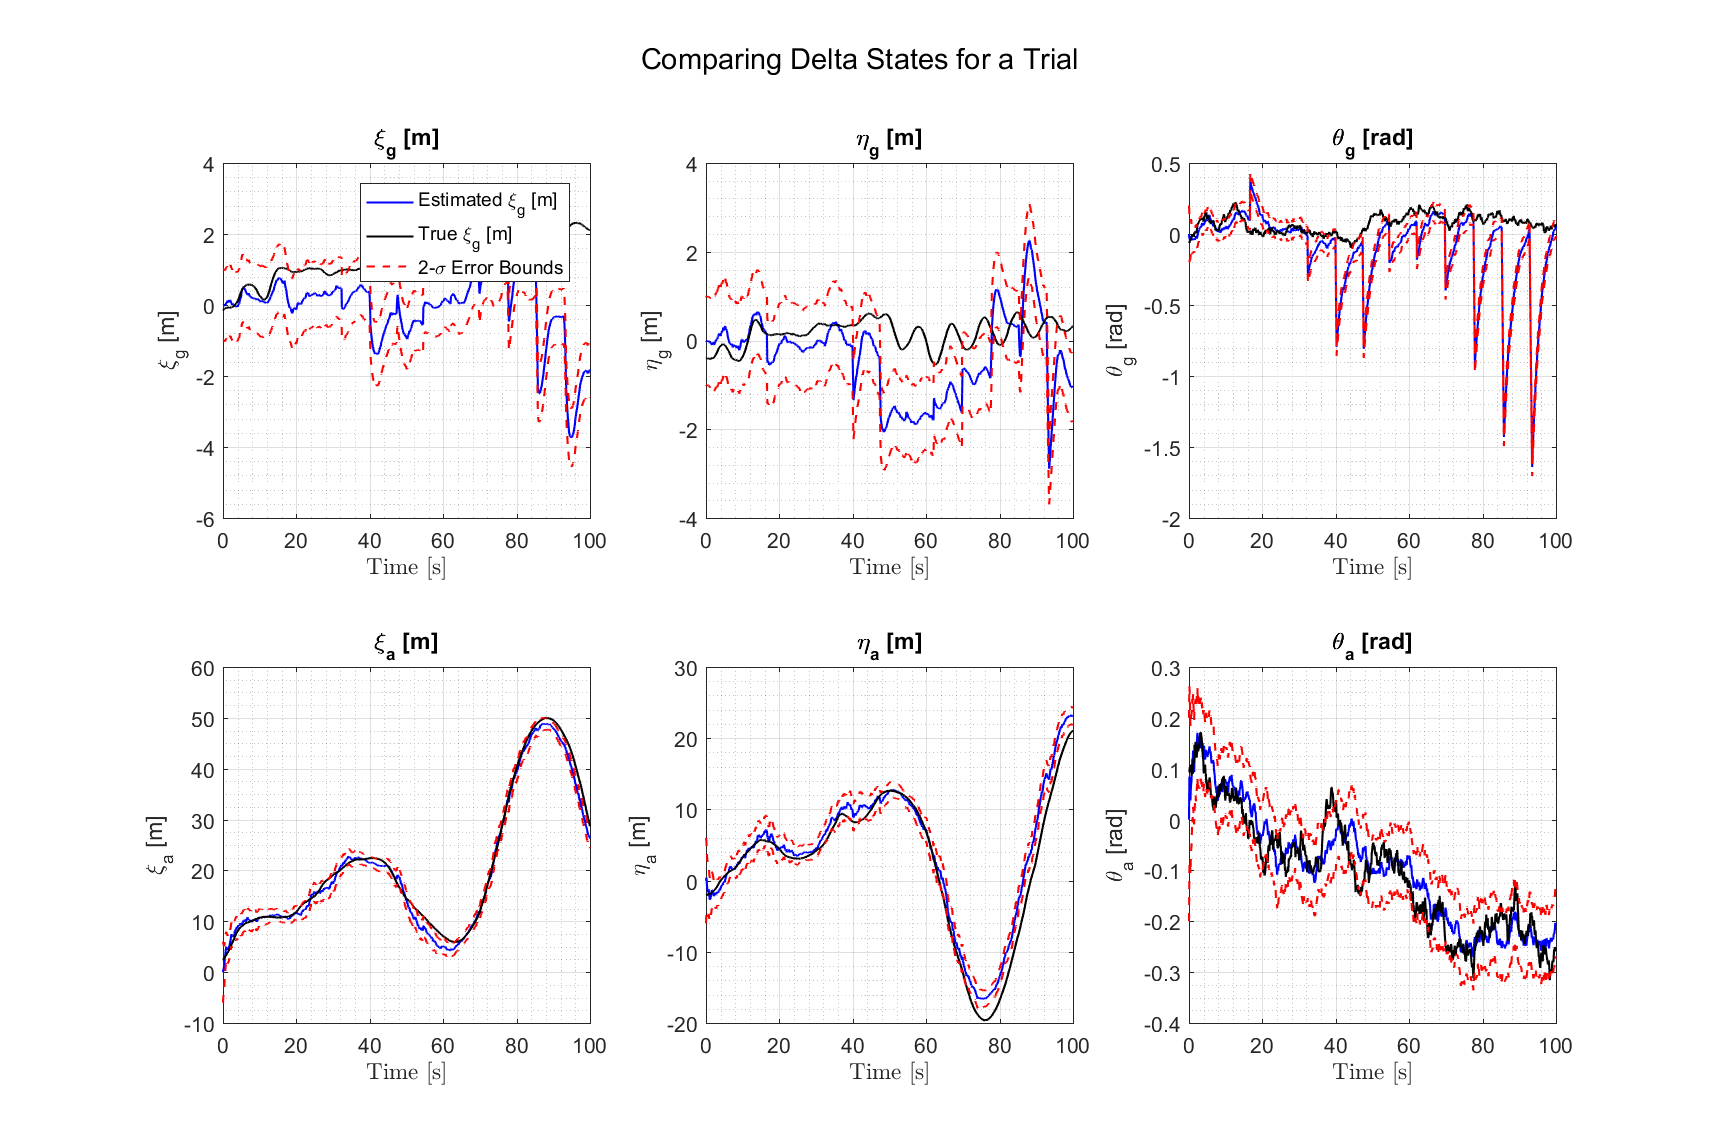
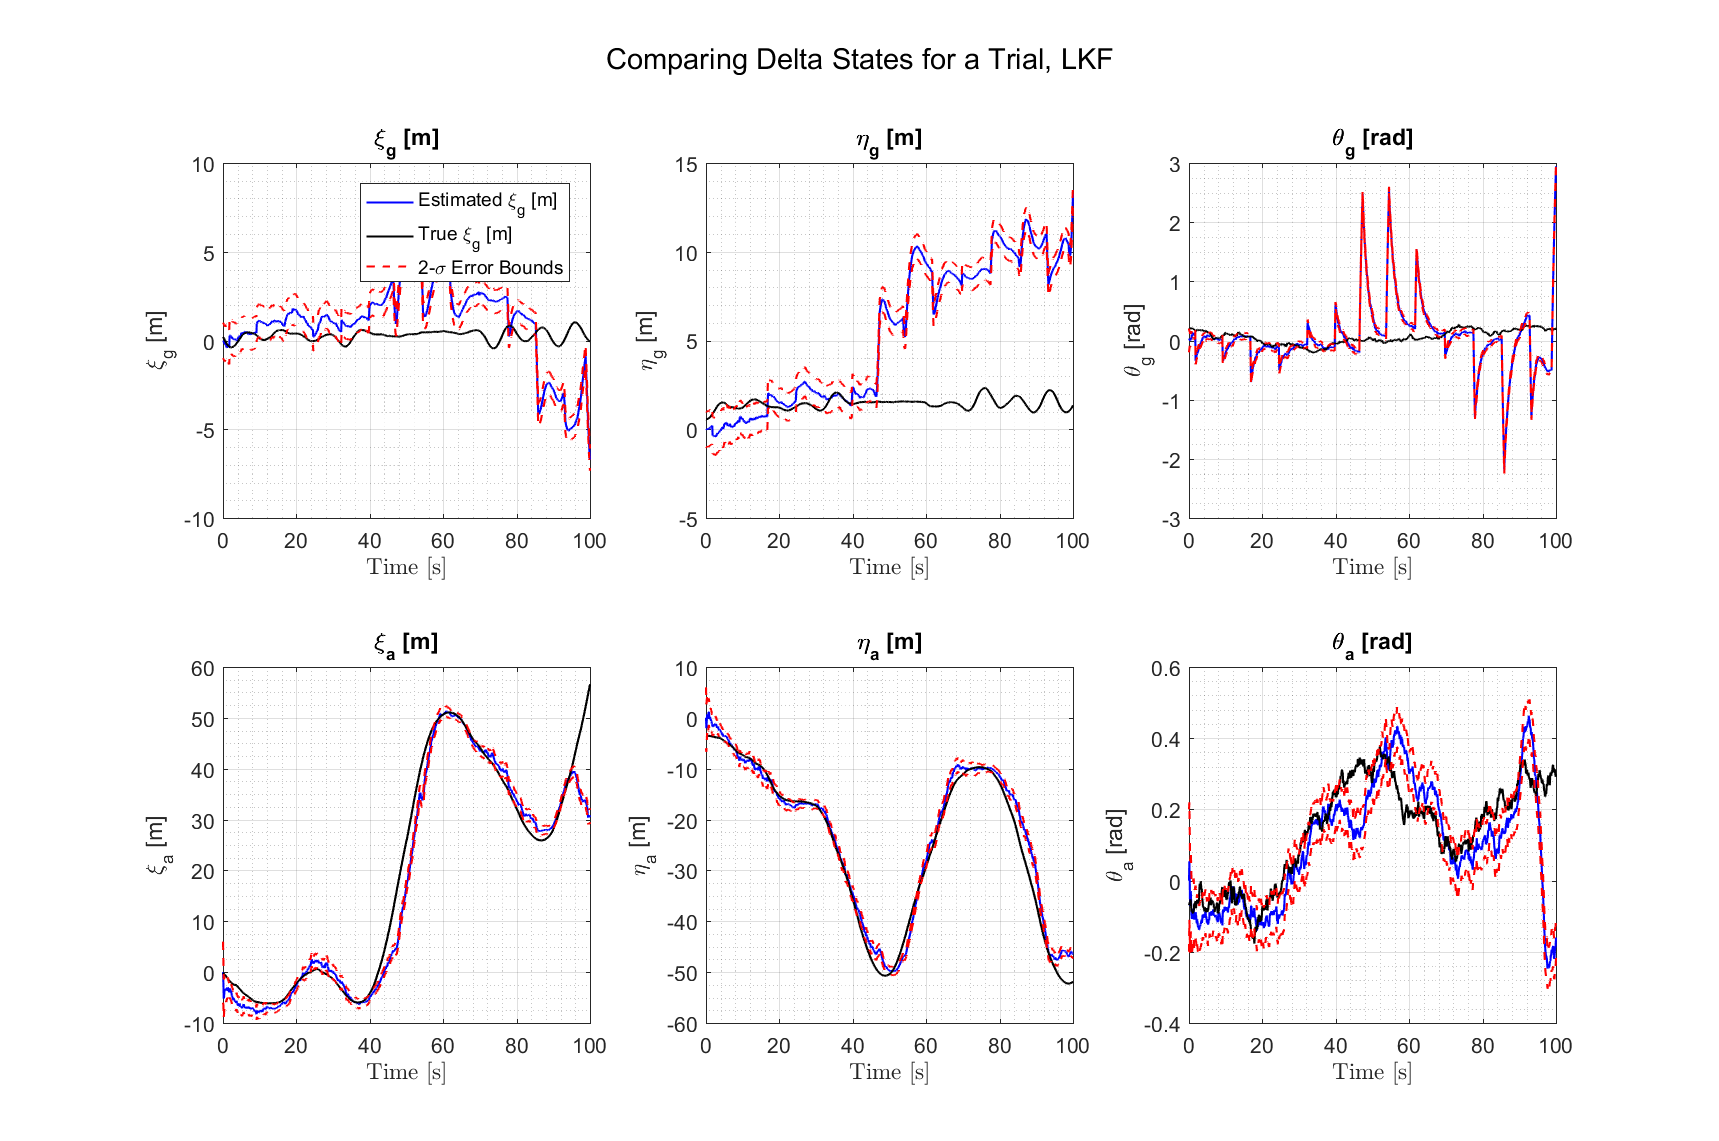
Baby steps tuning the EKF using R_EKF

diff --git a/progress1.m b/progress1.m
@@ -12,7 +12,7 @@
 clear; close all; clc;
 
 % Make plots?
-plotbool = [0 0 1];
+plotbool = [0 1 1];
 
 dt = 0.1;
 vg = 2; %m/s
@@ -176,12 +176,13 @@ NEES_LKF = zeros(num,len);
 NIS_LKF = zeros(num,len-1);
 
 QLKF = .46*Qtrue;
+RLKF = .5*Rtrue;
 for i=1:num
     % Create dy 
     dyLKF =noisymeas(:,:,i)-ynom; %Difference between measurement and nomimal meas
     
     %Linearized KF
-    [dxLKF,P,NIS_LKF(i,:)] = LKF(zeros(6,1),P0,time,FkLKF,GkLKF,dukLKF,OmegakLKF,QLKF,Rtrue,HkLKF,dyLKF);
+    [dxLKF,P,NIS_LKF(i,:)] = LKF(zeros(6,1),P0,time,FkLKF,GkLKF,dukLKF,OmegakLKF,QLKF,RLKF,HkLKF,dyLKF);
     xLKF = xnom + dxLKF;
     
     % Compute NEES
@@ -202,7 +203,7 @@ r4 = chi2inv(1-alpha/2,num*p)./num;
 
 if plotbool(2)
     %Plot the states
-    plotEstimate(xLKF,P,time,xMC(:,:,num),[ugvstates uavstates],'Comparing Truth and Predicted States for a Trial,LKF',1);
+    plotEstimate(xLKF,P,time,xMC(:,:,num),[ugvstates uavstates],'Comparing Truth and Predicted States for a Trial, LKF',1);
     print('LKF_est_tuning','-dpng')
     
     %Plot the delta_states
@@ -223,6 +224,8 @@ if plotbool(2)
     hold on
     plot([0,time(end)],[r1 r1],'--r','LineWidth',2)
     plot([0,time(end)],[r2 r2],'--r','LineWidth',2)
+    grid on
+    grid minor
     title('NEES Estimation Results, LKF')
     ylabel('NEES Statistic, $\bar{\epsilon}_x$','interpreter','latex','Fontsize',14)
     xlabel('Time [s]')
@@ -232,10 +235,13 @@ if plotbool(2)
     hold on
     plot([time(2),time(end)],[r3 r3],'--r','LineWidth',2)
     plot([time(2),time(end)],[r4 r4],'--r','LineWidth',2)
+    grid on 
+    grid minor
     title('NIS Estimation Results, LKF')
     ylabel('NIS Statistic, $\bar{\epsilon}_y$','interpreter','latex','Fontsize',14)
     xlabel('Time [s]')
     set(gcf, 'Position', [100, 100, 1100, 730]) 
+    suptitle('Linearized KF \chi^2 Statistics')
     print('LKF_NEESNIS','-dpng')
 end
 
@@ -243,10 +249,12 @@ end
 NEES_EKF = zeros(num,len);
 NIS_EKF = zeros(num,len-1);
 
-QEKF = .5*Qtrue;
+REKF = 20*Rtrue;
+REKF(2,2) = 15;
+QEKF = 5*Qtrue;
 for i=1:num  
     %Extended KF
-    [xEKF,P,NIS_EKF(i,:)] = EKF(inishcondish,P0,time,f,A,Omegak,QEKF,Rtrue,meas,C,noisymeas(:,:,i));
+    [xEKF,P,NIS_EKF(i,:)] = EKF(inishcondish,P0,time,f,A,Omegak,QEKF,REKF,meas,C,noisymeas(:,:,i));
     xEKF([3 6],:) = wrapToPi(xEKF([3 6],:));
     
     % Compute NEES
@@ -264,30 +272,35 @@ if plotbool(3)
     print('EKF_est_tuning','-dpng')
         
     %Plot the errors
-    err = xMC(:,:,num)-xLKF;
+    err = xMC(:,:,num)-xEKF;
     err([3 6],:) = wrapToPi(err([3 6],:));
     plotEstimate(err,P,time,zeros(n,len),[ugvstates uavstates],'State Estimation Errors, EKF',0);
     print('EKF_error_tuning','-dpng')
     
     figure
     subplot(1,2,1)
-    plot(time,NEES_avg_LKF,'ko','LineWidth',1)
+    plot(time,NEES_avg_EKF,'ko','LineWidth',1)
     hold on
     plot([0,time(end)],[r1 r1],'--r','LineWidth',2)
     plot([0,time(end)],[r2 r2],'--r','LineWidth',2)
+    grid on
+    grid minor
     title('NEES Estimation Results, EKF')
     ylabel('NEES Statistic, $\bar{\epsilon}_x$','interpreter','latex','Fontsize',14)
     xlabel('Time [s]')
     
     subplot(1,2,2)
-    plot(time(2:end),NIS_avg_LKF,'ko','LineWidth',1)
+    plot(time(2:end),NIS_avg_EKF,'ko','LineWidth',1)
     hold on
     plot([time(2),time(end)],[r3 r3],'--r','LineWidth',2)
     plot([time(2),time(end)],[r4 r4],'--r','LineWidth',2)
+    grid on
+    grid minor
     title('NIS Estimation Results, EKF')
     ylabel('NIS Statistic, $\bar{\epsilon}_y$','interpreter','latex','Fontsize',14)
     xlabel('Time [s]')
     set(gcf, 'Position', [100, 100, 1100, 730]) 
+    suptitle('Extended KF \chi^2 Statistics')
     print('EKF_NEESNIS','-dpng')
 end
 
